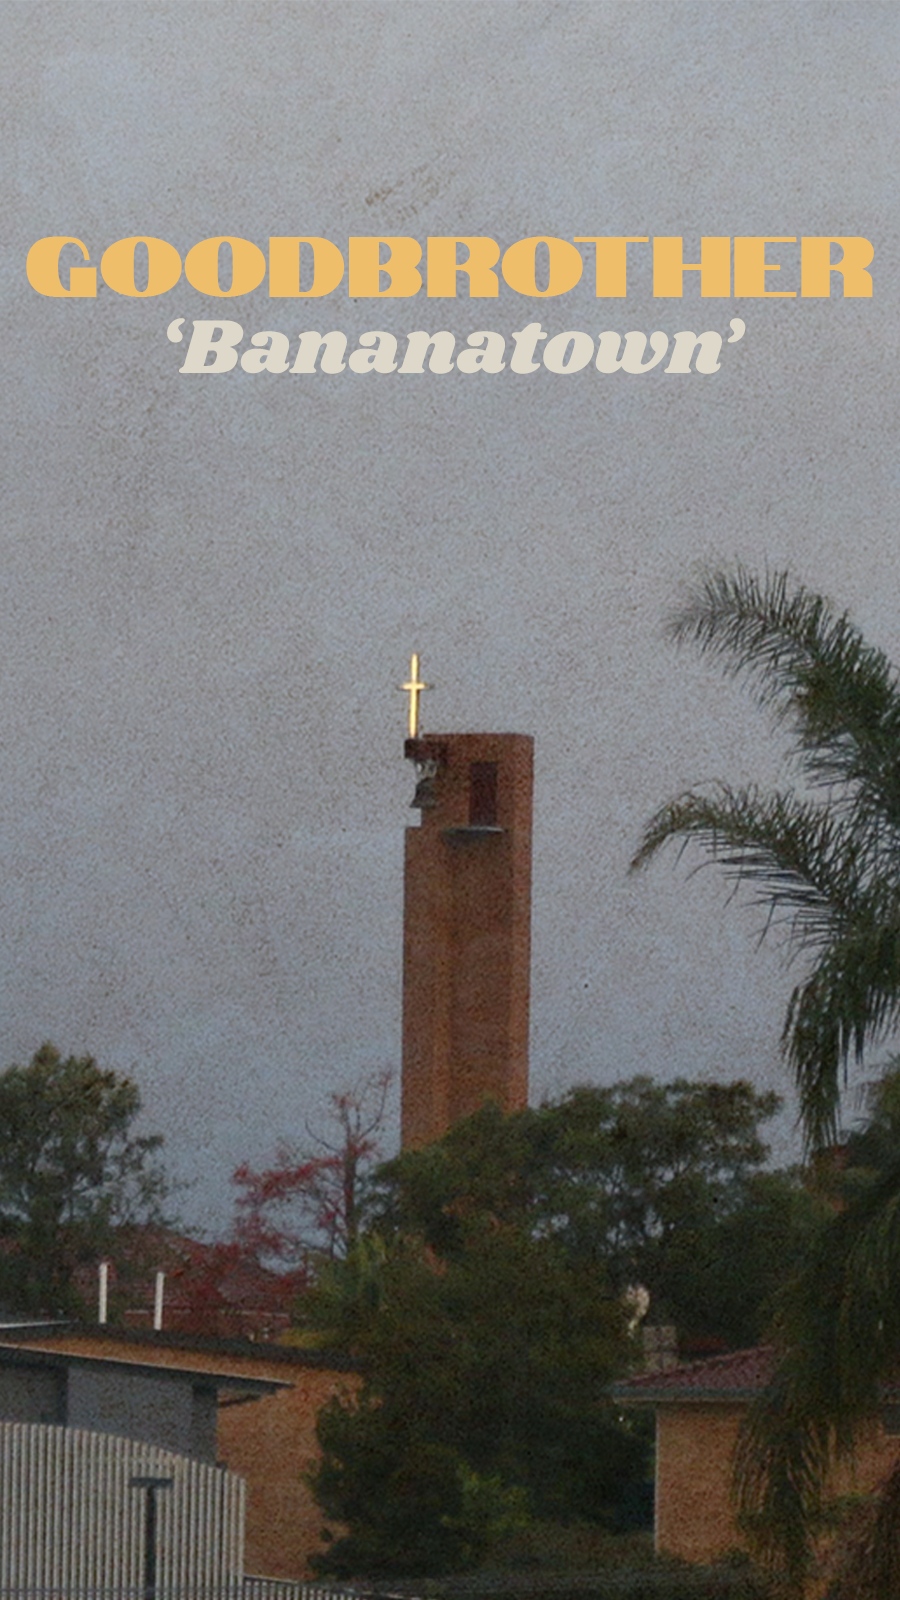
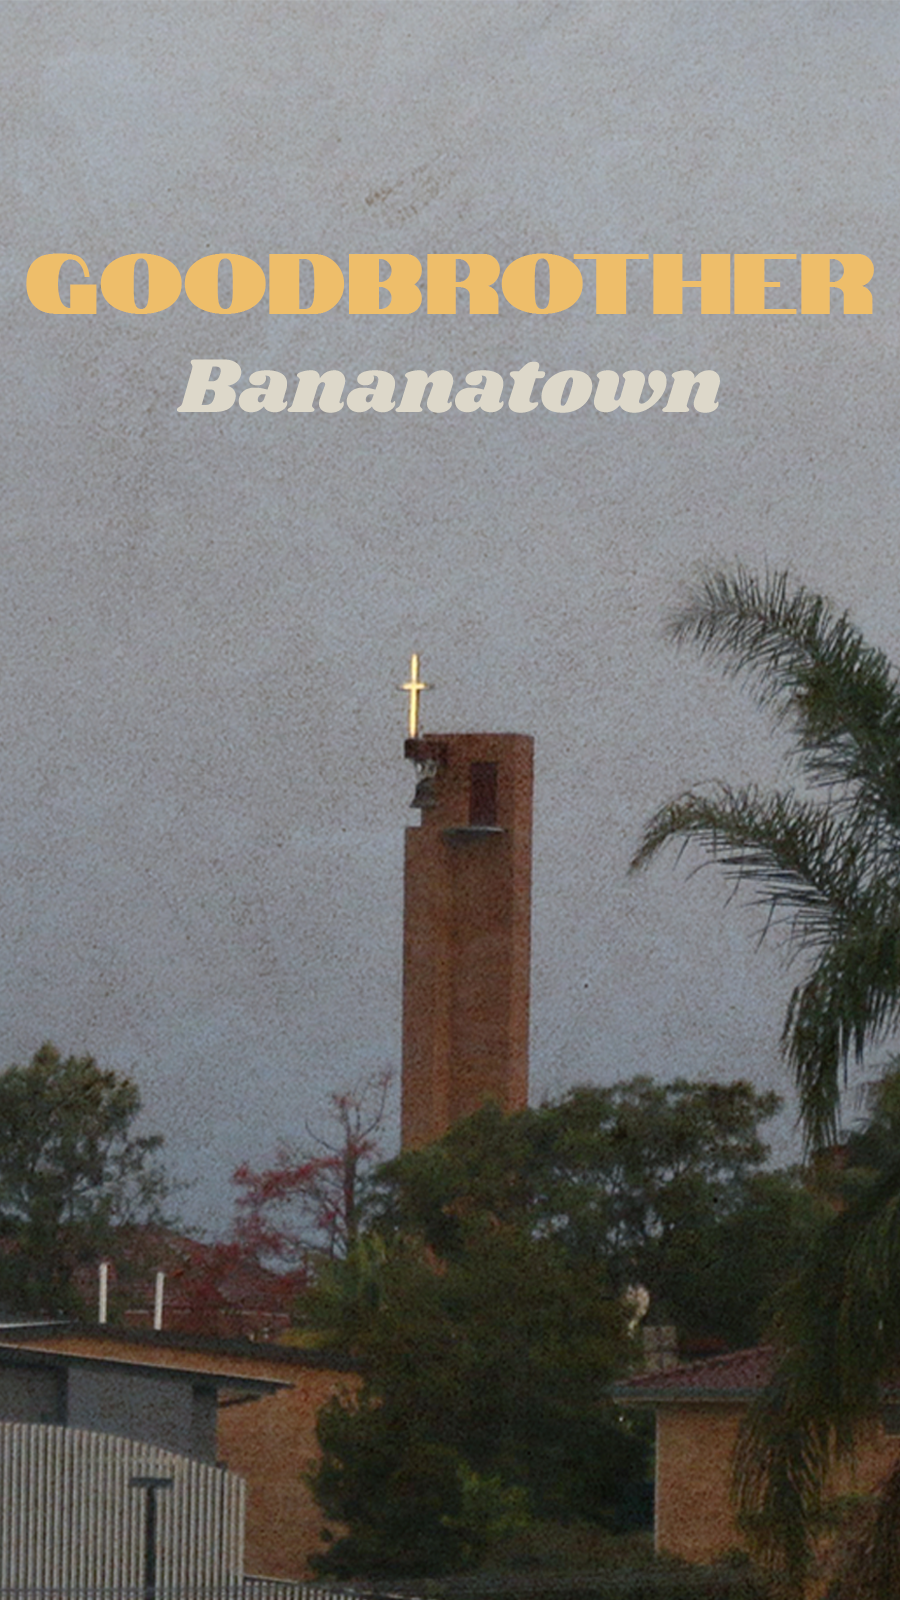
update

Changed region(s): [[0.0311, 0.125, 0.9956, 0.2812]]

diff --git a/css/style.css b/css/style.css
@@ -43,7 +43,7 @@ a {
   }
 
 .social {
-  font-size: 5vw;
+  font-size: 8vw;
   text-align: center;
   text-decoration: none;
 }
